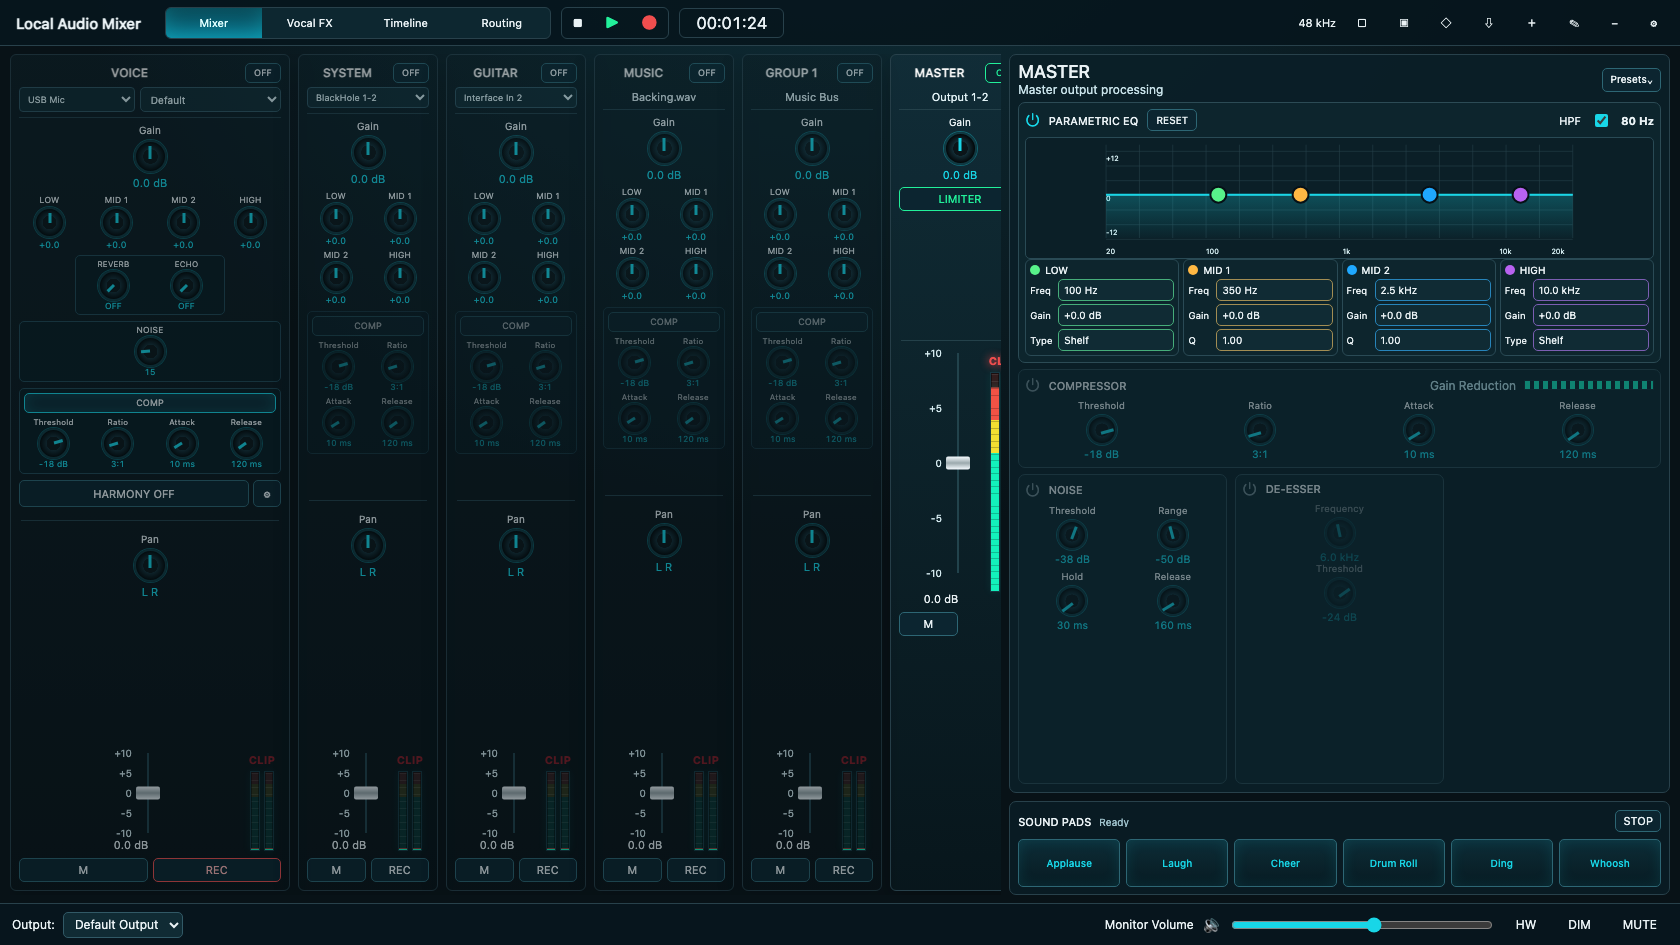
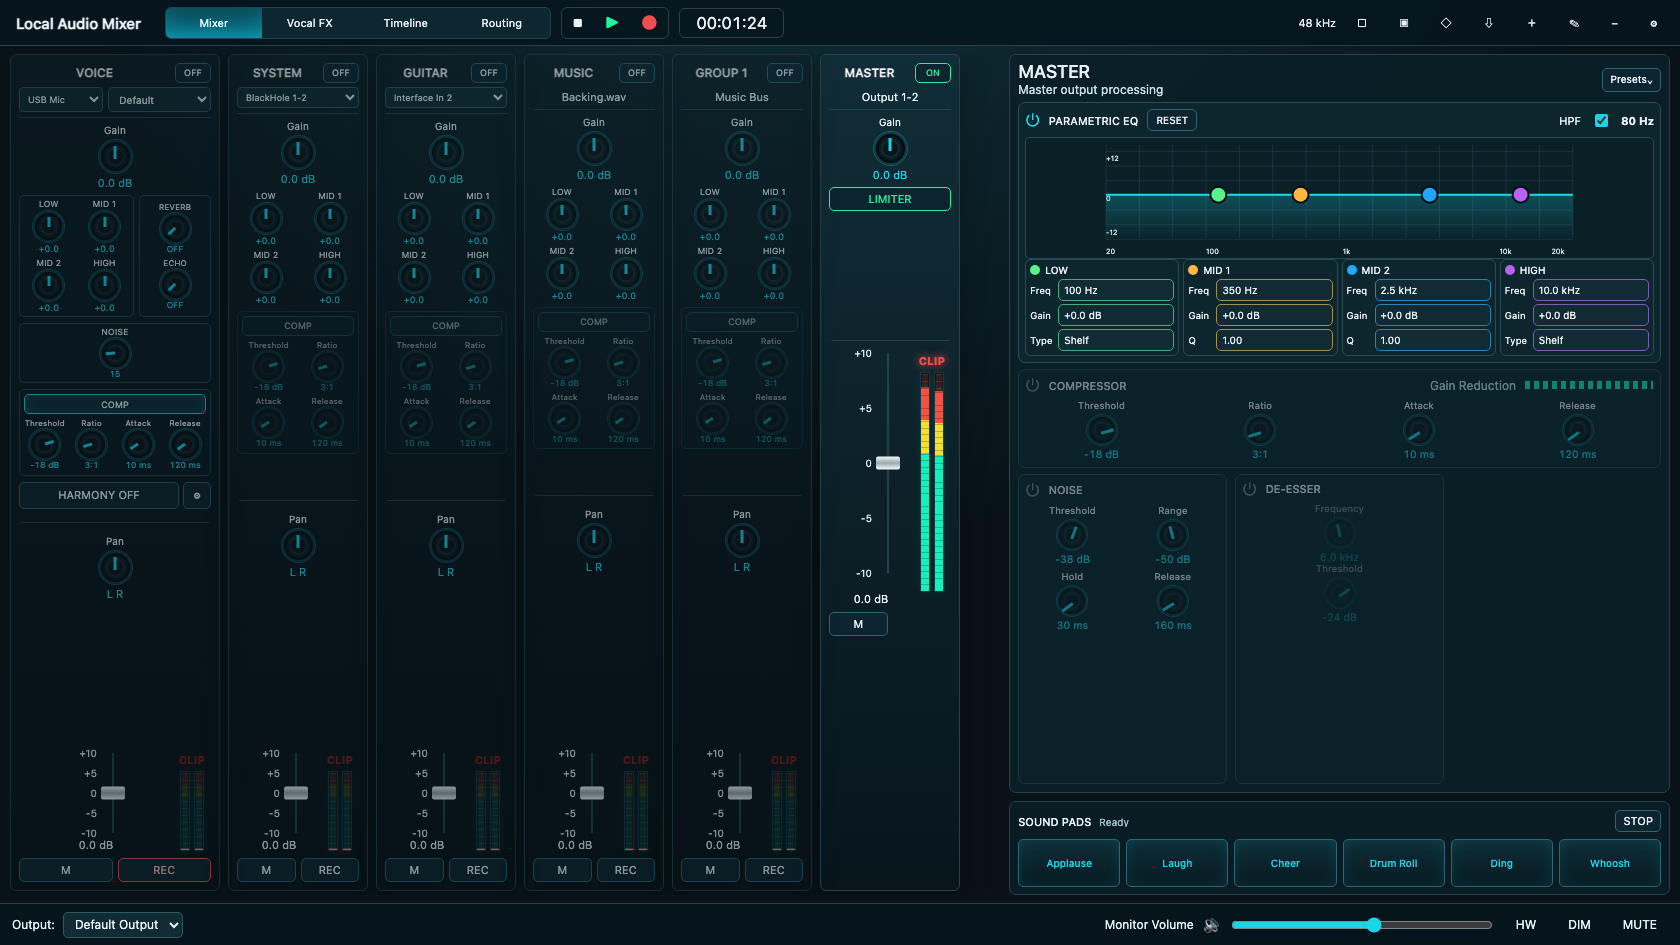
Compact voice tone controls

diff --git a/apps/desktop/src/styles/app.css b/apps/desktop/src/styles/app.css
@@ -67,7 +67,7 @@
 .right-zone { min-width: 0; min-height: 0; display: grid; grid-template-rows: minmax(0, 1fr) 94px; gap: 8px; }
 .channel-bank { display: flex; gap: 8px; min-width: 0; min-height: 0; overflow-x: auto; overflow-y: hidden; padding-bottom: 4px; }
 .channel-strip { flex: 0 0 140px; height: 100%; min-height: 0; display: flex; flex-direction: column; align-items: stretch; gap: 6px; padding: 8px; border: 1px solid var(--border); border-radius: 6px; background: linear-gradient(180deg, rgba(17, 45, 55, 0.96), rgba(8, 22, 28, 0.96)); box-shadow: var(--shadow); overflow: hidden; }
-.channel-strip.is-vocal { flex-basis: 280px; }
+.channel-strip.is-vocal { flex-basis: 210px; }
 .channel-strip.is-disabled { opacity: 0.58; background: linear-gradient(180deg, rgba(13, 31, 38, 0.96), rgba(7, 18, 23, 0.96)); }
 .channel-strip header { text-align: center; border-bottom: 1px solid #24414a; padding-bottom: 5px; min-height: 44px; overflow: hidden; }
 .channel-strip header strong { display: block; color: #f7f7f7; font-size: 12px; font-weight: 520; line-height: 1.15; white-space: nowrap; overflow: hidden; text-overflow: ellipsis; }
@@ -85,15 +85,17 @@
 .channel-insert-preset { width: 100%; min-width: 0; min-height: 25px; color: #dff4f8; background: #102b34; border: 1px solid #315966; border-radius: 5px; padding: 0 6px; font-size: 10px; font-weight: 420; }
 .channel-insert-preset:focus { outline: 1px solid var(--cyan); outline-offset: 1px; }
 .channel-tone-section { display: grid; gap: 5px; }
+.voice-tone-section { grid-template-columns: minmax(0, 1fr) minmax(0, 0.62fr); align-items: stretch; gap: 5px; }
+.voice-tone-frame,
+.voice-space-frame { min-width: 0; display: grid; align-items: center; padding: 3px 4px; border: 1px solid #214957; border-radius: 5px; background: rgba(8, 30, 38, 0.72); }
 .channel-tone-controls { display: grid; grid-template-columns: repeat(2, minmax(0, 1fr)); gap: 4px 6px; }
-.channel-strip.is-vocal .channel-tone-controls { grid-template-columns: repeat(4, minmax(0, 1fr)); }
 .channel-tone-controls .rotary { min-width: 0; }
 .channel-tone-controls .rotary-label { font-size: 8.5px; margin-bottom: 2px; }
 .channel-tone-controls .rotary-face { width: 26px; height: 26px; }
 .channel-tone-controls .rotary-tick { height: 10px; transform-origin: 50% 10px; }
 .channel-tone-controls .rotary-value { font-size: 9px; margin-top: 2px; }
 .channel-space-controls { display: grid; grid-template-columns: repeat(2, minmax(0, 1fr)); gap: 4px 6px; padding: 3px 4px; border: 1px solid #214957; border-radius: 5px; background: rgba(8, 30, 38, 0.72); }
-.channel-strip.is-vocal .channel-space-controls { max-width: 150px; justify-self: center; width: 100%; }
+.voice-space-frame .channel-space-controls { grid-template-columns: minmax(0, 1fr); padding: 0; border: 0; background: transparent; }
 .channel-space-controls .rotary { min-width: 0; }
 .channel-space-controls .rotary-label { font-size: 8px; margin-bottom: 1px; }
 .channel-space-controls .rotary-face { width: 24px; height: 24px; }
@@ -374,7 +376,7 @@
   .left-zone { grid-template-rows: minmax(0, 1fr); gap: 6px; }
   .right-zone { grid-template-rows: minmax(0, 1fr) 86px; gap: 6px; }
   .channel-strip { flex-basis: 140px; gap: 4px; padding: 7px; font-size: 10px; }
-  .channel-strip.is-vocal { flex-basis: 280px; }
+  .channel-strip.is-vocal { flex-basis: 210px; }
   .channel-strip header { min-height: 40px; padding-bottom: 3px; }
   .processing-buttons { gap: 4px; }
   .processing-buttons .ui-button { min-height: 22px; padding: 1px 8px; }

diff --git a/apps/desktop/src/features/mixer/components/ChannelStrip.tsx b/apps/desktop/src/features/mixer/components/ChannelStrip.tsx
@@ -158,30 +158,42 @@ function ChannelToneControls({ channel, vocalFxSlots, onEqBand, onVocalFxMix }: 
     { id: "high", label: "HIGH" }
   ];
 
+  const toneControls = (
+    <div className="channel-tone-controls">
+      {toneBands.map((tone) => {
+        const band = channel.eqBands.find((item) => item.id === tone.id);
+        const gainDb = band?.gainDb ?? 0;
+        return (
+          <RotaryKnob
+            key={tone.id}
+            label={tone.label}
+            value={`${gainDb >= 0 ? "+" : ""}${gainDb.toFixed(1)}`}
+            numericValue={gainDb}
+            min={-12}
+            max={12}
+            step={0.5}
+            size="sm"
+            onChange={(value) => onEqBand(tone.id, value)}
+          />
+        );
+      })}
+    </div>
+  );
+
+  if (channel.role === "vocal") {
+    return (
+      <div className="channel-tone-section voice-tone-section">
+        <div className="voice-tone-frame">{toneControls}</div>
+        <div className="voice-space-frame">
+          <VoiceSpaceControls slots={vocalFxSlots} onMix={onVocalFxMix} />
+        </div>
+      </div>
+    );
+  }
+
   return (
     <div className="channel-tone-section">
-      <div className="channel-tone-controls">
-        {toneBands.map((tone) => {
-          const band = channel.eqBands.find((item) => item.id === tone.id);
-          const gainDb = band?.gainDb ?? 0;
-          return (
-            <RotaryKnob
-              key={tone.id}
-              label={tone.label}
-              value={`${gainDb >= 0 ? "+" : ""}${gainDb.toFixed(1)}`}
-              numericValue={gainDb}
-              min={-12}
-              max={12}
-              step={0.5}
-              size="sm"
-              onChange={(value) => onEqBand(tone.id, value)}
-            />
-          );
-        })}
-      </div>
-      {channel.role === "vocal" ? (
-        <VoiceSpaceControls slots={vocalFxSlots} onMix={onVocalFxMix} />
-      ) : null}
+      {toneControls}
     </div>
   );
 }

diff --git a/docs/progress.md b/docs/progress.md
@@ -4756,3 +4756,30 @@ Validation:
 
 Known limitations:
 - Manual hardware confirmation of the new mixer strip layout on the live desktop app is `NOT_RUN`.
+
+### Phase19 UX Checkpoint — Compact Voice Tone Frames
+
+Changed files:
+- `apps/desktop/src/features/mixer/components/ChannelStrip.tsx`: wraps VOICE tone controls into two side-by-side frames: EQ on the left and space effects on the right.
+- `apps/desktop/src/styles/app.css`: reduces VOICE strip width from 280px to 210px and lays out LOW/MID 1 over MID 2/HIGH plus vertical REVERB/ECHO.
+- `docs/progress.md`: records verification evidence.
+
+Implemented behavior:
+- VOICE now uses a narrower 3/4-width strip compared with the previous widened layout.
+- The left VOICE frame contains LOW and MID 1 on the first row, MID 2 and HIGH on the second row.
+- The right VOICE frame contains REVERB above ECHO, so the controls stay readable without keeping the full 2x strip width.
+
+Validation:
+- command: `npm run typecheck`
+- exit/result: `0`; TypeScript passed.
+- command: `npm run test:visual`
+- exit/result: `0`; Playwright visual suite 6/6 passed.
+- command: `npm run check:file-size`
+- exit/result: `0`; file-size check passed with the existing `MixerPage.tsx 837` warning.
+- command: `npm run check:architecture`
+- exit/result: `0`; architecture check passed.
+- command: `npm run verify`
+- exit/result: `0`; plan, file-size, architecture, typecheck, Vitest 55/55, native CTest 43/43, engine self-test, device enumeration smoke, protocol smoke, UI build, and Electron main/preload build passed.
+
+Known limitations:
+- Manual hardware confirmation of the compact VOICE strip in the live desktop app is `NOT_RUN`.
